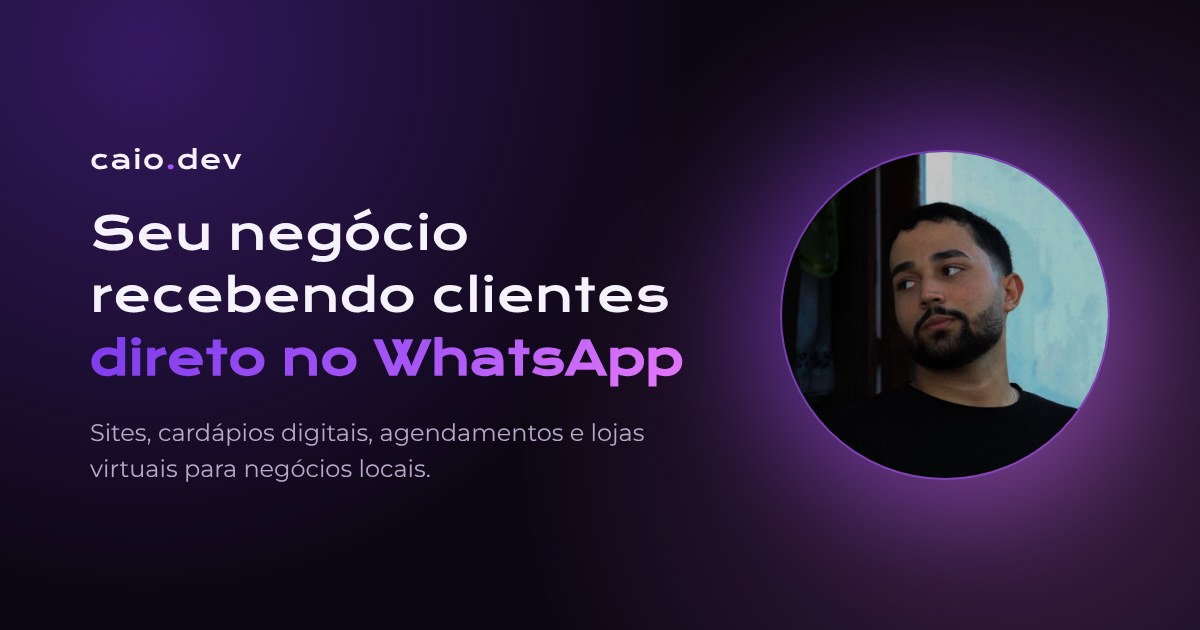
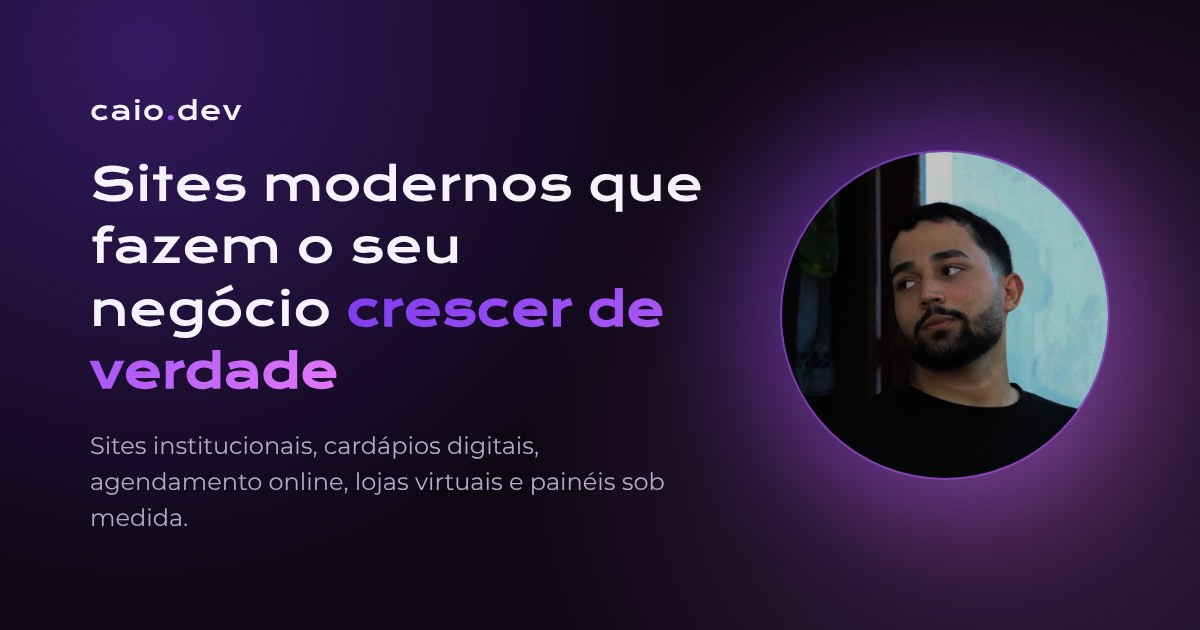
Tira o foco do WhatsApp do título da Home
O título passa a falar de sites sob medida para o negócio crescer, e o
WhatsApp fica só como um dos serviços e como canal de contato.

Claude-Session: https://claude.ai/code/session_01V4u4N8BDiq6PaxYqmX8bgh

diff --git a/index.html b/index.html
@@ -4,19 +4,19 @@
 <head>
     <meta charset="UTF-8">
     <meta name="viewport" content="width=device-width, initial-scale=1.0">
-    <title>Caio Vinícius · Sites para negócios locais</title>
-    <meta name="description" content="Sites, cardápios digitais, agendamentos online e lojas virtuais que levam clientes direto para o WhatsApp do seu negócio.">
+    <title>Caio Vinícius · Desenvolvimento web sob medida</title>
+    <meta name="description" content="Sites institucionais, cardápios digitais, agendamento online, lojas virtuais e painéis administrativos feitos sob medida para o seu negócio crescer.">
     <meta name="theme-color" content="#0d0714">
     <meta property="og:type" content="website">
     <meta property="og:locale" content="pt_BR">
     <meta property="og:site_name" content="Caio Vinícius">
-    <meta property="og:title" content="Caio Vinícius · Sites para negócios locais">
-    <meta property="og:description" content="Sites, cardápios digitais, agendamentos online e lojas virtuais que levam clientes direto para o WhatsApp do seu negócio.">
+    <meta property="og:title" content="Caio Vinícius · Desenvolvimento web sob medida">
+    <meta property="og:description" content="Sites institucionais, cardápios digitais, agendamento online, lojas virtuais e painéis administrativos feitos sob medida para o seu negócio crescer.">
     <meta property="og:url" content="https://portflio-three-ashen.vercel.app/">
     <meta property="og:image" content="https://portflio-three-ashen.vercel.app/assets/og-image.jpg">
     <meta property="og:image:width" content="1200">
     <meta property="og:image:height" content="630">
-    <meta property="og:image:alt" content="Caio Vinícius, sites para negócios locais">
+    <meta property="og:image:alt" content="Caio Vinícius, desenvolvimento web sob medida">
     <meta name="twitter:card" content="summary_large_image">
     <link rel="icon" type="image/x-icon" href="./assets/favicon.ico">
     <link rel="icon" type="image/png" sizes="32x32" href="./assets/favicon-32.png">
@@ -38,20 +38,22 @@
 
     <main class="apresentacao">
         <section class="apresentacao__conteudo reveal">
-            <p class="eyebrow">Sites para negócios locais</p>
-            <h1 class="apresentacao__conteudo__titulo">Seu negócio recebendo pedidos e clientes
-                <strong class="TituloDestaque">direto no WhatsApp</strong>
+            <p class="eyebrow">Desenvolvimento web sob medida</p>
+            <h1 class="apresentacao__conteudo__titulo">Sites modernos que fazem o seu negócio
+                <strong class="TituloDestaque">crescer de verdade</strong>
             </h1>
-            <p class="apresentacao__conteudo__texto">Sou Caio Vinícius e crio sites, cardápios digitais,
-                agendamentos online e lojas virtuais para hamburguerias, pizzarias, barbearias, clínicas,
-                academias e comércios. Tudo rápido no celular e pensado para transformar visitas em clientes.</p>
+            <p class="apresentacao__conteudo__texto">Sou Caio Vinícius e desenvolvo sites sob medida para negócios
+                de todos os tipos: sites institucionais, cardápios digitais, agendamento online, lojas virtuais e
+                painéis para você gerenciar tudo sozinho. Cada projeto é rápido, bonito no celular e pensado para
+                transformar visitas em clientes.</p>
 
             <div class="chips">
-                <span class="chip">Cardápio digital</span>
+                <span class="chip">Sites institucionais</span>
+                <span class="chip">Cardápios digitais</span>
                 <span class="chip">Agendamento online</span>
-                <span class="chip">Loja virtual</span>
-                <span class="chip">Pedidos pelo WhatsApp</span>
-                <span class="chip">Painel para editar</span>
+                <span class="chip">Lojas virtuais</span>
+                <span class="chip">Painéis administrativos</span>
+                <span class="chip">Integração com WhatsApp</span>
             </div>
 
             <div class="apresentacao__ctas">
@@ -60,7 +62,7 @@
                     <path d="M4 20l1.3-4A8 8 0 1 1 8.3 19L4 20Z" />
                     <path d="M8.8 9.6c.2 2.6 2.5 4.9 5.1 5.1.9.1 1.1-.6 1.1-1.1l-.3-1-1.7-.6-1 1a5.2 5.2 0 0 1-2.5-2.5l1-1-.6-1.7-1-.3c-.5 0-1.2.2-1.1 1.1Z" />
                 </svg>
-                    Pedir orçamento no WhatsApp
+                    Pedir orçamento
                 </a>
                 <a class="botao botao--secundario" href="projects.html">Ver projetos</a>
             </div>

diff --git a/about.html b/about.html
@@ -16,7 +16,7 @@
     <meta property="og:image" content="https://portflio-three-ashen.vercel.app/assets/og-image.jpg">
     <meta property="og:image:width" content="1200">
     <meta property="og:image:height" content="630">
-    <meta property="og:image:alt" content="Caio Vinícius, sites para negócios locais">
+    <meta property="og:image:alt" content="Caio Vinícius, desenvolvimento web sob medida">
     <meta name="twitter:card" content="summary_large_image">
     <link rel="icon" type="image/x-icon" href="./assets/favicon.ico">
     <link rel="icon" type="image/png" sizes="32x32" href="./assets/favicon-32.png">
@@ -48,9 +48,10 @@
                 locais, como hamburguerias, pizzarias, barbearias, clínicas, academias e lojas, criando sites
                 que facilitam a vida do cliente: ver o cardápio, fazer o pedido, marcar um horário ou escolher um
                 produto em poucos toques, direto pelo celular.</p>
-            <p class="sobre__texto">Cada projeto é feito sob medida, com a identidade do seu negócio,
-                carregamento rápido e o WhatsApp sempre a um clique. Em alguns deles também entrego um painel
-                simples para você atualizar produtos, preços e cupons sem depender de ninguém.</p>
+            <p class="sobre__texto">Cada projeto é feito sob medida, com a identidade do seu negócio e
+                carregamento rápido. Conforme a necessidade, o site pode ter pedidos online, agendamento, loja
+                virtual, integração com o WhatsApp e um painel simples para você atualizar produtos, preços e
+                cupons sem depender de ninguém.</p>
 
             <div class="jornada">
                 <h2 class="jornada__titulo">Como eu trabalho</h2>
@@ -84,7 +85,7 @@
                     <path d="M4 20l1.3-4A8 8 0 1 1 8.3 19L4 20Z" />
                     <path d="M8.8 9.6c.2 2.6 2.5 4.9 5.1 5.1.9.1 1.1-.6 1.1-1.1l-.3-1-1.7-.6-1 1a5.2 5.2 0 0 1-2.5-2.5l1-1-.6-1.7-1-.3c-.5 0-1.2.2-1.1 1.1Z" />
                 </svg>
-                    Pedir orçamento no WhatsApp
+                    Pedir orçamento
                 </a>
                 <a class="botao botao--secundario" href="projects.html">Ver projetos</a>
             </div>

diff --git a/projects.html b/projects.html
@@ -16,7 +16,7 @@
     <meta property="og:image" content="https://portflio-three-ashen.vercel.app/assets/og-image.jpg">
     <meta property="og:image:width" content="1200">
     <meta property="og:image:height" content="630">
-    <meta property="og:image:alt" content="Caio Vinícius, sites para negócios locais">
+    <meta property="og:image:alt" content="Caio Vinícius, desenvolvimento web sob medida">
     <meta name="twitter:card" content="summary_large_image">
     <link rel="icon" type="image/x-icon" href="./assets/favicon.ico">
     <link rel="icon" type="image/png" sizes="32x32" href="./assets/favicon-32.png">
@@ -315,7 +315,7 @@
                     <path d="M4 20l1.3-4A8 8 0 1 1 8.3 19L4 20Z" />
                     <path d="M8.8 9.6c.2 2.6 2.5 4.9 5.1 5.1.9.1 1.1-.6 1.1-1.1l-.3-1-1.7-.6-1 1a5.2 5.2 0 0 1-2.5-2.5l1-1-.6-1.7-1-.3c-.5 0-1.2.2-1.1 1.1Z" />
                 </svg>
-                Pedir orçamento no WhatsApp
+                Pedir orçamento
             </a>
         </div>
     </main>
